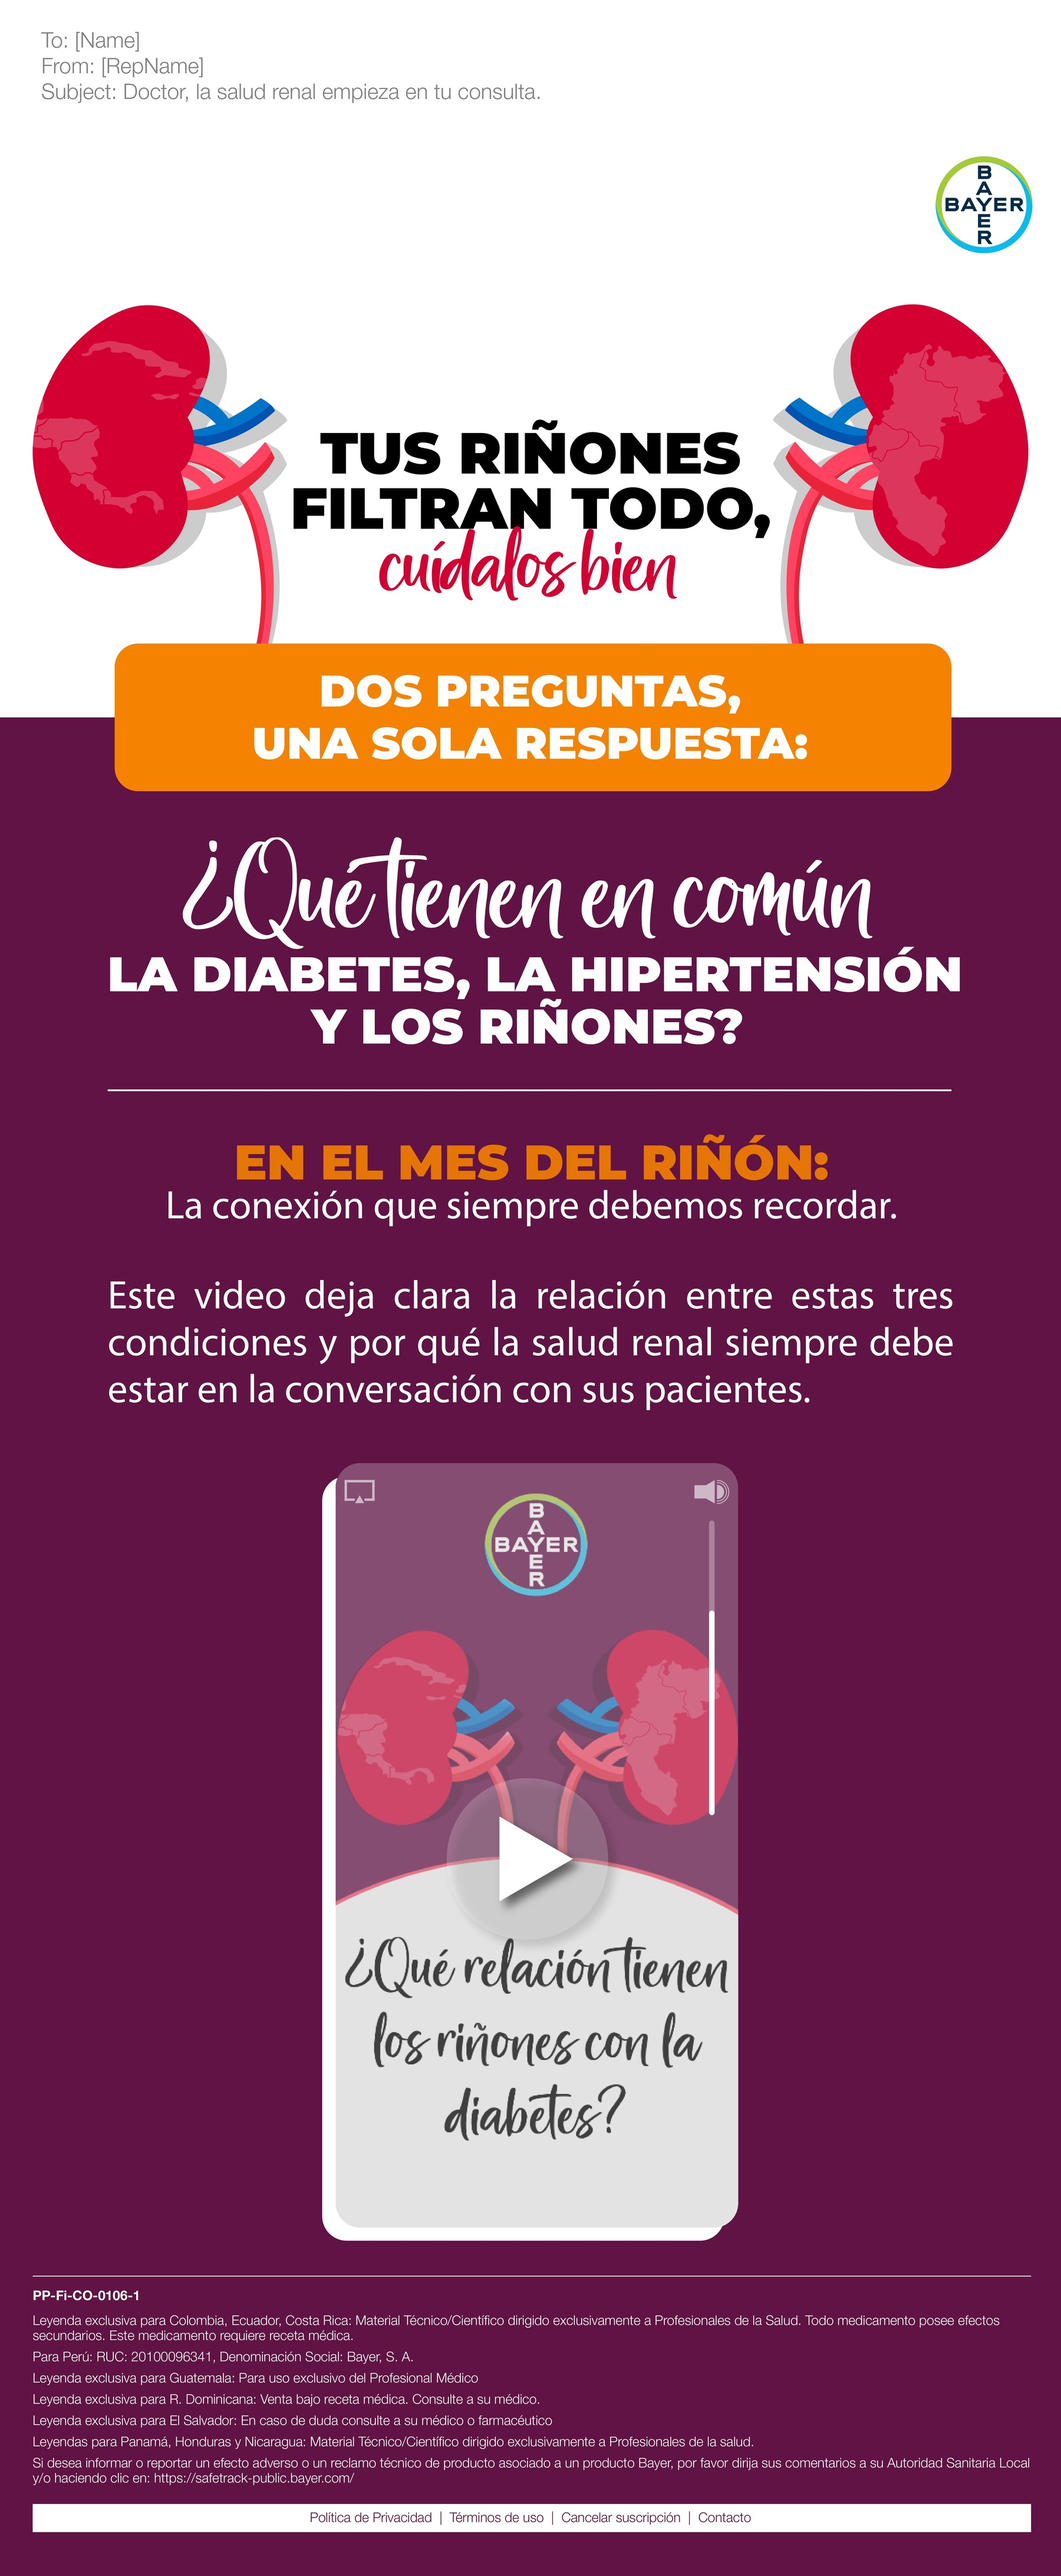
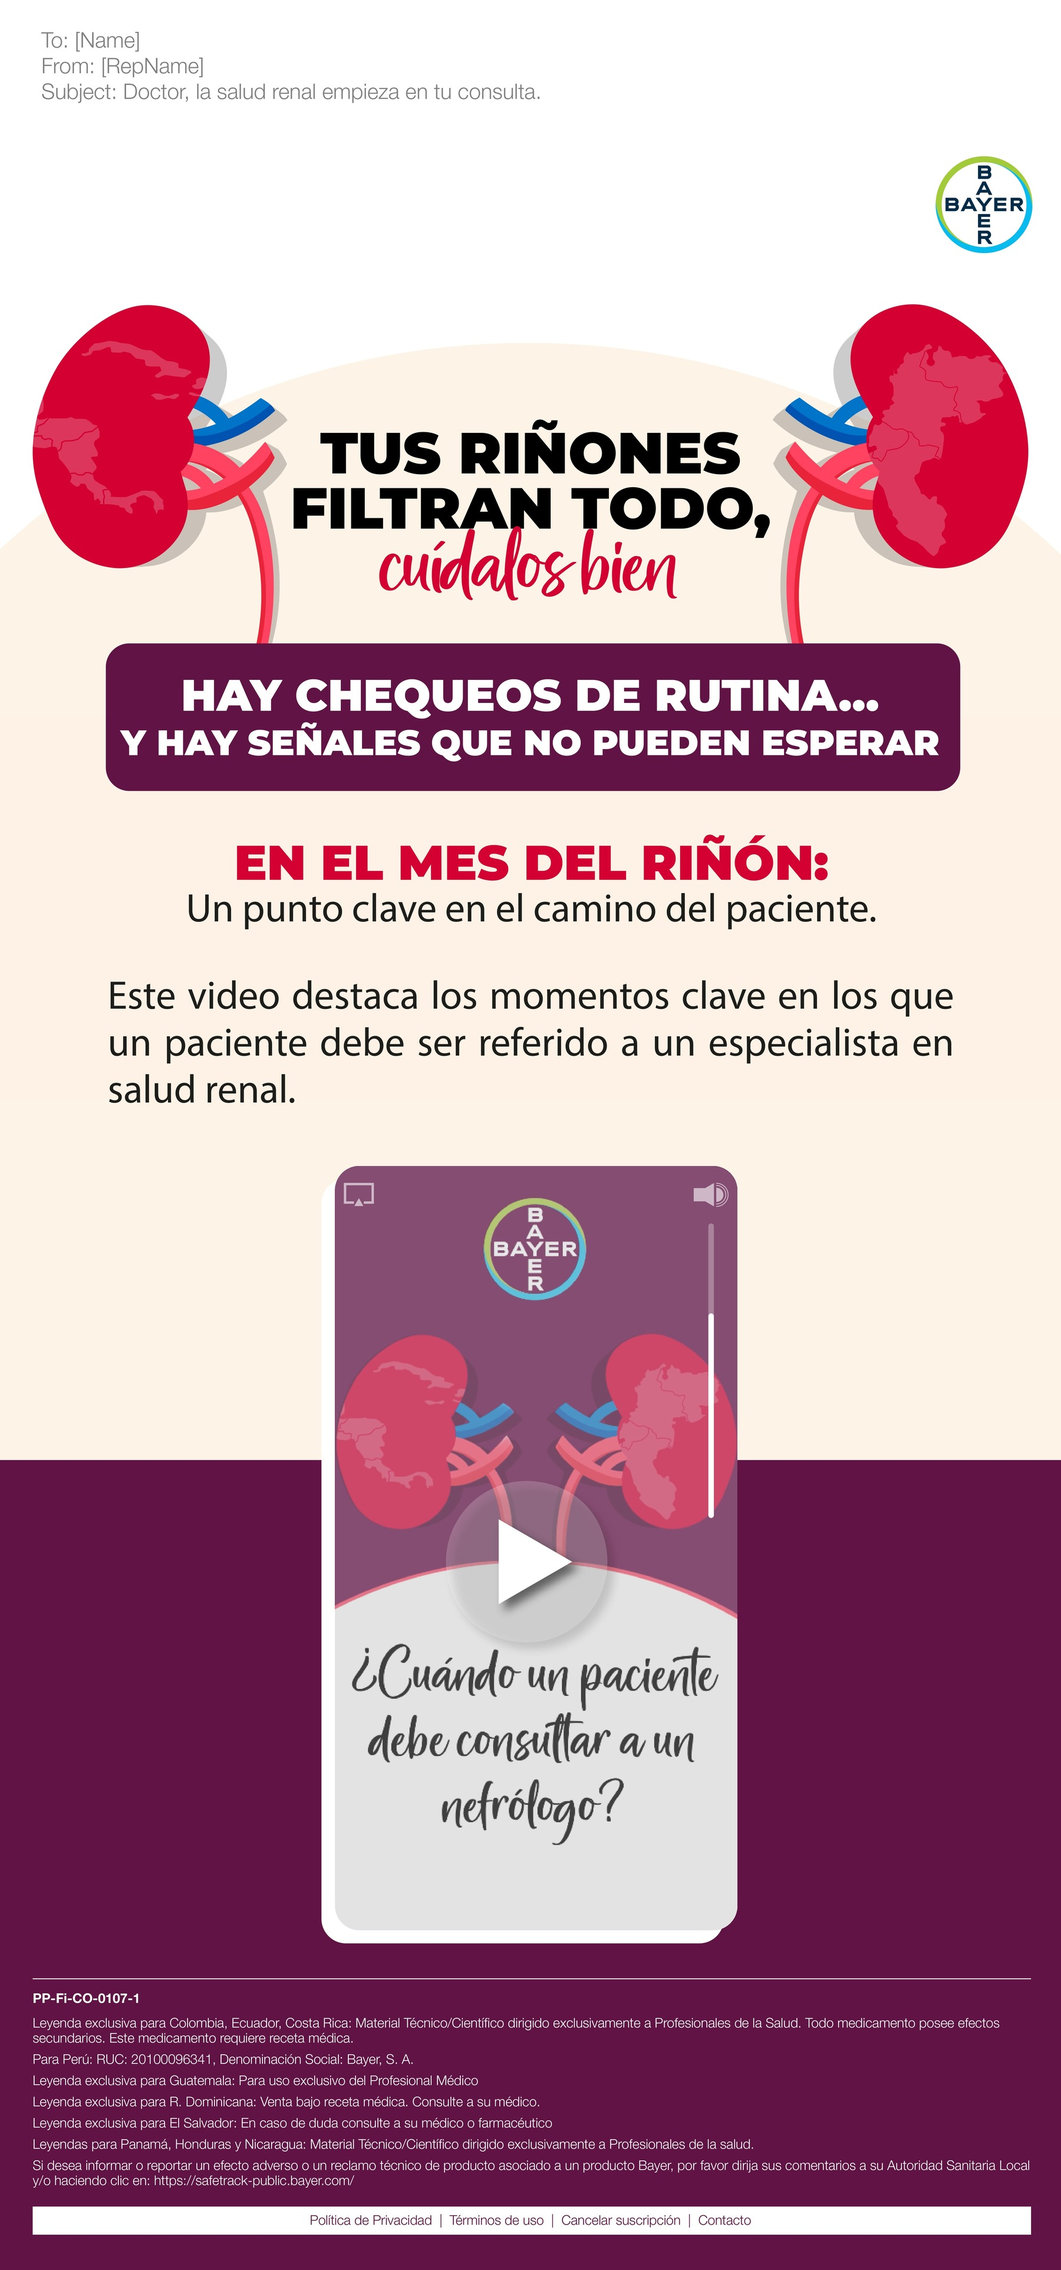
PP-Fi-CO-0107-1 Finalizada

diff --git a/index.html b/index.html
@@ -10,7 +10,7 @@
    <meta name="apple-mobile-web-app-capable" content="yes">
    <meta name="apple-mobile-web-app-status-bar-style" content="black-translucent">
    <meta name='author' href="https://github.com/juliansfreelance" email="jcalderon.code@gmail.com" content='Julio Calderón' />
-   <meta name="description" content="Tus Riñones Filtran Todo" />
+   <meta name="description" content="Tus Riñones Filtran Todo"/>
 
    <link rel="preconnect" href="https://fonts.googleapis.com">
    <link rel="preconnect" href="https://fonts.gstatic.com" crossorigin>
@@ -67,7 +67,7 @@
          position: absolute;
          color:transparent;
          text-decoration: none;
-       /* background-color: rgb(255, 0, 0, 0.6); */
+         /*background-color: rgb(255, 0, 0, 0.6);*/ 
          font-size: 12px;
 }
       
@@ -94,10 +94,10 @@
    font-size: 16px;
 }
       .link_safe {
-         top: 2095px;
+         top: 1844px;
          left: 130px;
          width: 172px;
-         height: 12px;
+         height: 12px;;
       }
 
       .link_bayer {
@@ -173,10 +173,10 @@
          background-color: white;
          position: absolute;
          display: flex;
-         bottom: 42px;
+         bottom: 36px;
          padding: 4px 1px;
          width: 848px;
-         height: auto;
+         height: 25px;
          flex-direction: row;
          flex-wrap: nowrap;
          justify-content: center;
@@ -202,7 +202,7 @@
       }
 
       .Link_video{
-         top: 1507px;
+         top: 1255px;
          left: 379px;
          width: 137px;
          height: 138px;
@@ -251,7 +251,7 @@
 <!-- <a href="https://www.informacionparaprescribir.com/sites/g/files/vrxlpx51731/files/2024-10/Firialta10mgy20mg-InformacionCOL.pdf" target="_blank" class="Qr_CO">QR</a> -->
 
 <a href="https://safetrack-public.bayer.com/" target="_blank" class="link_safe">ST</a>
-    <a href="https://youtube.com/shorts/idZSTNmA6fE" target="_blank" class="Link_video"/>Video</a> 
+    <a href="https://youtube.com/shorts/gZ4U5tYzKvM" target="_blank" class="Link_video"/>Video</a> 
       
       <!-- <a href="https://www.informacionparaprescribir.com/sites/g/files/vrxlpx51731/files/2024-05/NexavarEcuador.pdf" target="_blank" class="Qr_EC">QR</a>
       <a href="https://www.informacionparaprescribir.com/sites/g/files/vrxlpx51731/files/2024-05/NexavaPeru.pdf" target="_blank" class="Qr_PE">QR</a> -->
